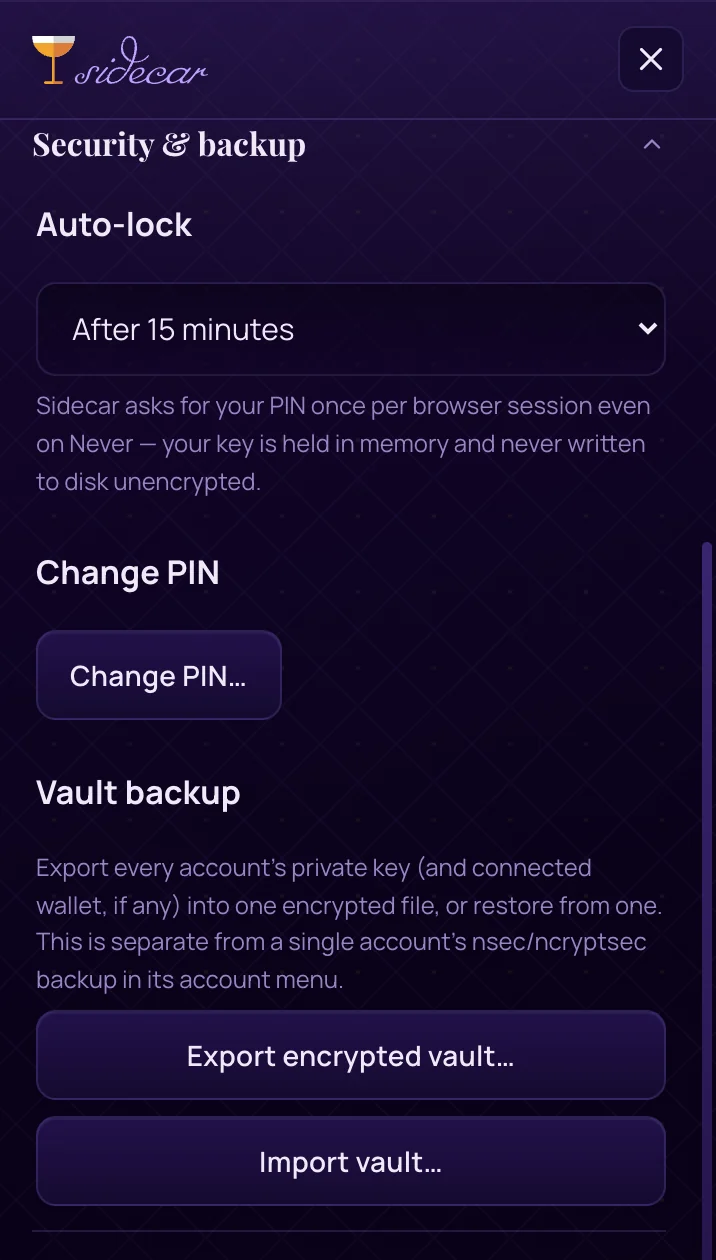
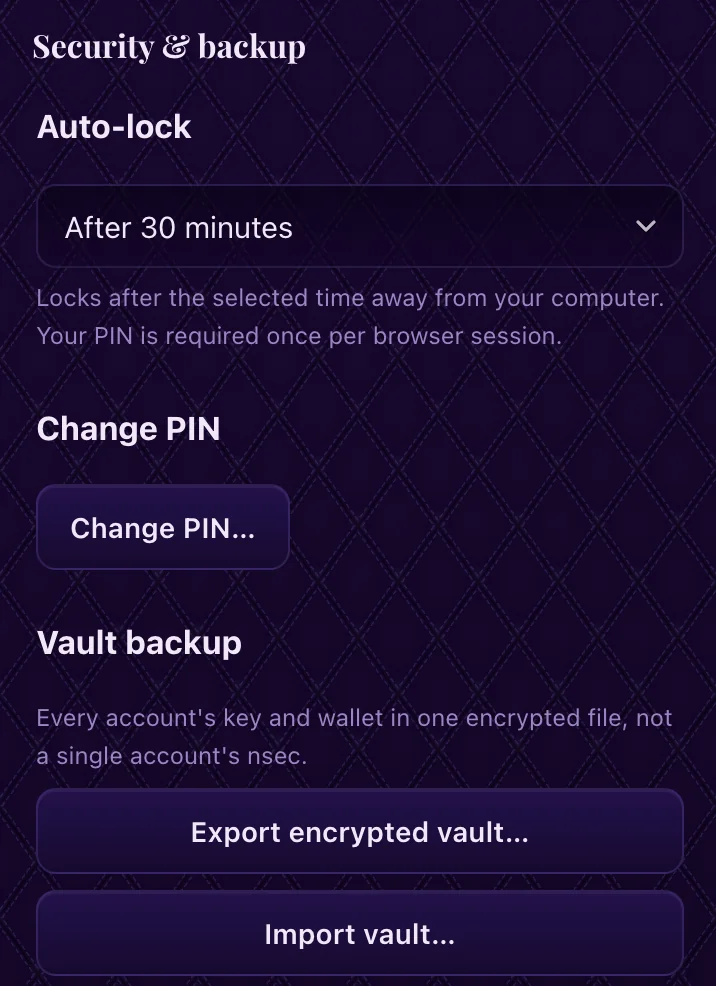
Retake eight help screenshots with the demo accounts
Accounts, the vault backup, connected sites, notifications, recent
activity, the auto-sign bar, the single-user switch and the theme
gallery, each taken from the current panel with the demo accounts and
cropped to fit the guide's frame. The figures say their size, the alt
text says what is in each one now, and "Reload [site]" reads "Reload
client window", as the panel does.

Part of #575. The three approval-card shots are retaken with the card's
redesign.

diff --git a/help.html b/help.html
@@ -127,7 +127,7 @@
       <!-- screenshot: the Accounts tab listing accounts, the active one checkmarked -->
       <figure class="shot">
         <div class="shot-frame">
-          <img src="screenshots/account-switcher.webp" alt="The Accounts tab listing two accounts, Gatsby (active, with a checkmark) and Amelia, plus an Add account button">
+          <img src="screenshots/account-switcher.webp" width="716" height="640" alt="The Accounts tab listing two accounts, Gatsby (active, with a checkmark and his Overview folded beneath) and Amelia, plus an Add account button">
         </div>
         <figcaption>Your accounts on the Accounts tab. The checkmark marks the active one; click another to switch, or add more.</figcaption>
       </figure>
@@ -173,7 +173,7 @@
 
       <figure class="shot">
         <div class="shot-frame">
-          <img src="screenshots/backup-vault.webp" width="716" height="1260" alt="Sidecar Settings open at Security and backup: an Auto-lock dropdown set to After 15 minutes, a Change PIN button, and a Vault backup section with Export encrypted vault and Import vault buttons">
+          <img src="screenshots/backup-vault.webp" width="716" height="986" alt="Sidecar Settings at Security and backup: an Auto-lock dropdown set to After 30 minutes, a Change PIN button, and a Vault backup section with Export encrypted vault and Import vault buttons">
         </div>
         <figcaption>Auto-lock, your PIN, and the whole-vault export in one place.</figcaption>
       </figure>
@@ -208,7 +208,7 @@
       <!-- screenshot: the Activity tab's Connected sites, each with its pinned account -->
       <figure class="shot">
         <div class="shot-frame">
-          <img src="screenshots/connected-sites.webp" alt="The Activity tab's Connected sites: jumble.social pinned to Amelia (shared by two accounts, Trusted), and primal.net pinned to Gatsby with a Use Amelia button to move it">
+          <img src="screenshots/connected-sites.webp" width="716" height="980" alt="The Activity tab's Connected sites: notes.example signs in as Amelia and signs reactions without asking, with an × to remove that, set to Ask every time; client.example signs in as Gatsby, with a Use Amelia button to move it">
         </div>
         <figcaption>Connected sites in the Activity tab. Each stays pinned to the account it signed in with; click <strong>Use</strong> to move one to your active account.</figcaption>
       </figure>
@@ -216,7 +216,7 @@
       <!-- screenshot: the Recent activity signing log below Connected sites -->
       <figure class="shot">
         <div class="shot-frame">
-          <img src="screenshots/recent-activity.webp" width="716" height="1400" alt="The Recent activity list: a signed note, reaction, repost and app-data event plus a shared public key, each with its own icon and tagged with the site and how long ago. Every row that signed an event carries an open-in-client button on the right; the shared public key, which signed nothing, does not">
+          <img src="screenshots/recent-activity.webp" width="716" height="1208" alt="The Recent activity list: a signed reaction, app data, a repost, another reaction and a note, plus a shared public key, each with its own icon and tagged with the site and how long ago. Rows that signed an event carry an open-in-client button; app data carries a copy button for its event ID; the shared public key, which signed nothing, carries none">
         </div>
         <figcaption>Below it, the signing log — every request Sidecar has approved, newest first. Rows that signed an event open it in your client, so the log can be checked rather than believed.</figcaption>
       </figure>
@@ -237,7 +237,7 @@
       families. When a switch does call for a fresh login, the routine is the same
       everywhere: log out on the site, switch accounts in Sidecar, then log back in.</p>
       <p><strong>The shortcut.</strong> Whenever you switch the active account and a
-      paired site is open in the current tab, Sidecar offers a <strong>Reload [site]</strong>
+      paired site is open in the current tab, Sidecar offers a <strong>Reload client window</strong>
       button. For apps that re-check the extension on load, that single click usually
       does it.</p>
 
@@ -260,17 +260,17 @@
           <p>These apps have a single signed-in user: whoever the extension provided at
           login. There's no account menu inside the app, so the identity changes only
           when the login changes.</p>
-          <p>To switch, switch accounts in Sidecar and use the <strong>Reload [site]</strong>
+          <p>To switch, switch accounts in Sidecar and use the <strong>Reload client window</strong>
           button Sidecar offers right after. These apps ask the extension again when the
           page loads, so that reload re-pairs them with your newly active account. If a
           reload doesn't do it, the full log out and log back in routine always will.</p>
 
-          <!-- screenshot: Sidecar's Reload [site] offer after switching, for a single-user client -->
+          <!-- screenshot: Sidecar's Reload client window offer after switching, for a single-user client -->
           <figure class="shot shot-sm">
             <div class="shot-frame">
-              <img src="screenshots/single-user-switch.webp" alt="After switching to Gatsby in Sidecar, a one-click Reload primal.net button appears to re-pair the open single-user client">
+              <img src="screenshots/single-user-switch.webp" width="716" height="320" alt="The top of the Sidecar panel right after switching to Gatsby: under the tabs, a Reload client window button to re-pair the open single-user client, with an × to dismiss it">
             </div>
-            <figcaption>Switch in Sidecar, then click <strong>Reload [site]</strong> to re-pair the open app.</figcaption>
+            <figcaption>Switch in Sidecar, then click <strong>Reload client window</strong> to re-pair the open app.</figcaption>
           </figure>
         </div>
 
@@ -347,7 +347,7 @@
       <!-- screenshot: the relax status bar counting down -->
       <figure class="shot">
         <div class="shot-frame">
-          <img src="screenshots/relax-status-bar.webp" width="720" height="300" alt="The bottom of the Sidecar panel below the wordmark and compose button: a status bar with a green dot, the account name Amelia, the site jumble.social, a partly depleted progress bar, a 13:37 countdown, and a round close button to end auto-signing">
+          <img src="screenshots/relax-status-bar.webp" width="720" height="300" alt="The bottom of the Sidecar panel below the wordmark and compose button: a status bar with a green dot, the account name Amelia, the site notes.example, a restart button and a close button, a partly depleted progress bar, and a 13:38 countdown">
         </div>
         <figcaption>One window at a time, always visible, always cancelable.</figcaption>
       </figure>
@@ -504,7 +504,7 @@
 
       <figure class="shot">
         <div class="shot-frame">
-          <img src="screenshots/notifications-network.webp" width="716" height="700" alt="Sidecar Settings open at Notifications, headed Your network first, with a checked box reading Sort notifications by who you follow, a line reading Your network: 1,209 people, from 12,129 your follows follow, and a Rebuild network button">
+          <img src="screenshots/notifications-network.webp" width="716" height="900" alt="Sidecar Settings with Notifications open, headed Your network first, with a checked box reading Sort notifications by who you follow, a line reading Your network: 953 people, from 11,211 your follows follow, and a Rebuild network button">
         </div>
         <figcaption>The network is built from your follow list and theirs, and can be rebuilt on demand.</figcaption>
       </figure>
@@ -719,7 +719,7 @@
 
       <figure class="shot">
         <div class="shot-frame">
-          <img src="screenshots/theme-gallery.webp" width="716" height="1500" alt="The Sidecar theme picker with Dark and Light tabs, showing a grid of live preview tiles for Speakeasy, Film Noir, Brownstone, Nixie, Cast Iron and Metropolis, each rendering the numerals 21 in that theme's own typeface and palette">
+          <img src="screenshots/theme-gallery.webp" width="716" height="1350" alt="The Sidecar theme picker: a Special edition card for Phantom Bouquet, until December 6, above Dark and Light tabs and live preview tiles for Speakeasy, Metropolis, Film Noir and Brownstone, each rendering the numerals 21 in that theme's own typeface and palette">
         </div>
         <figcaption>Each tile is a live preview, not a swatch.</figcaption>
       </figure>
